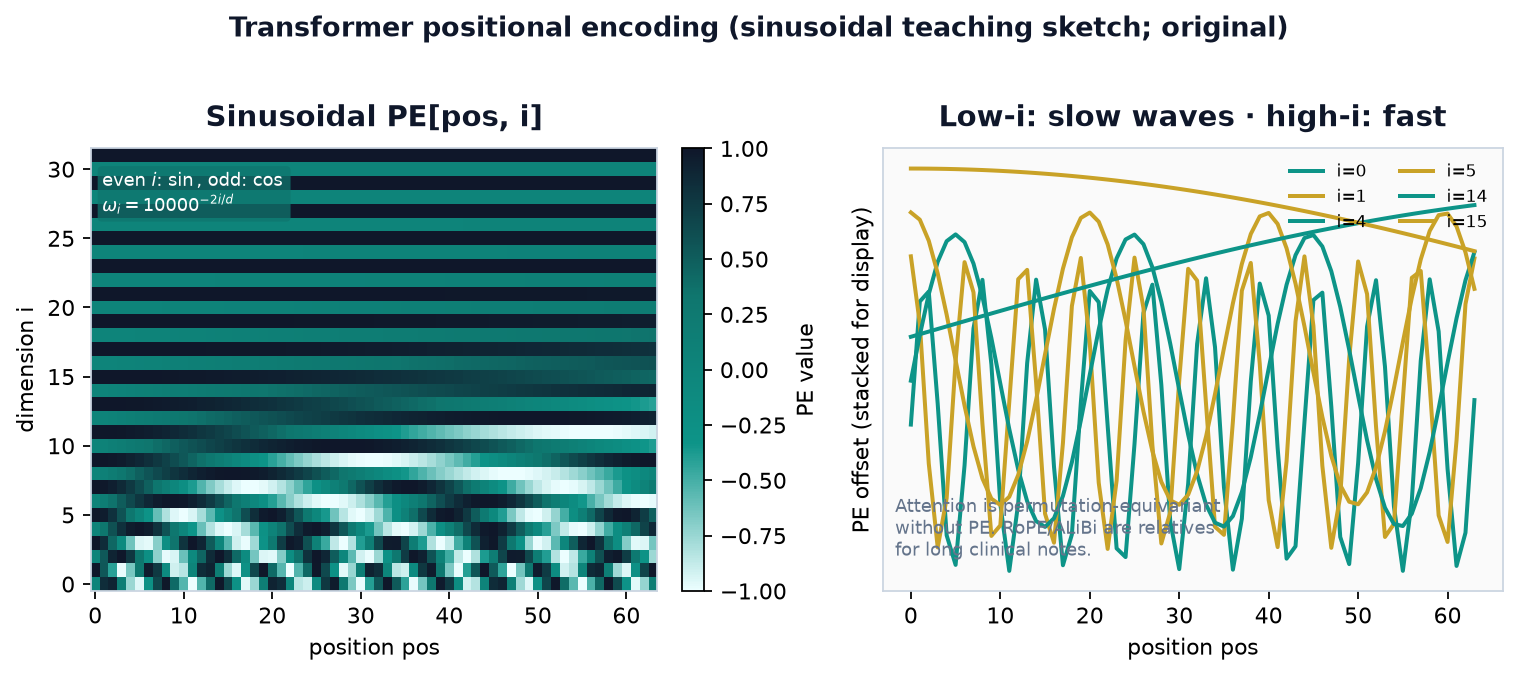
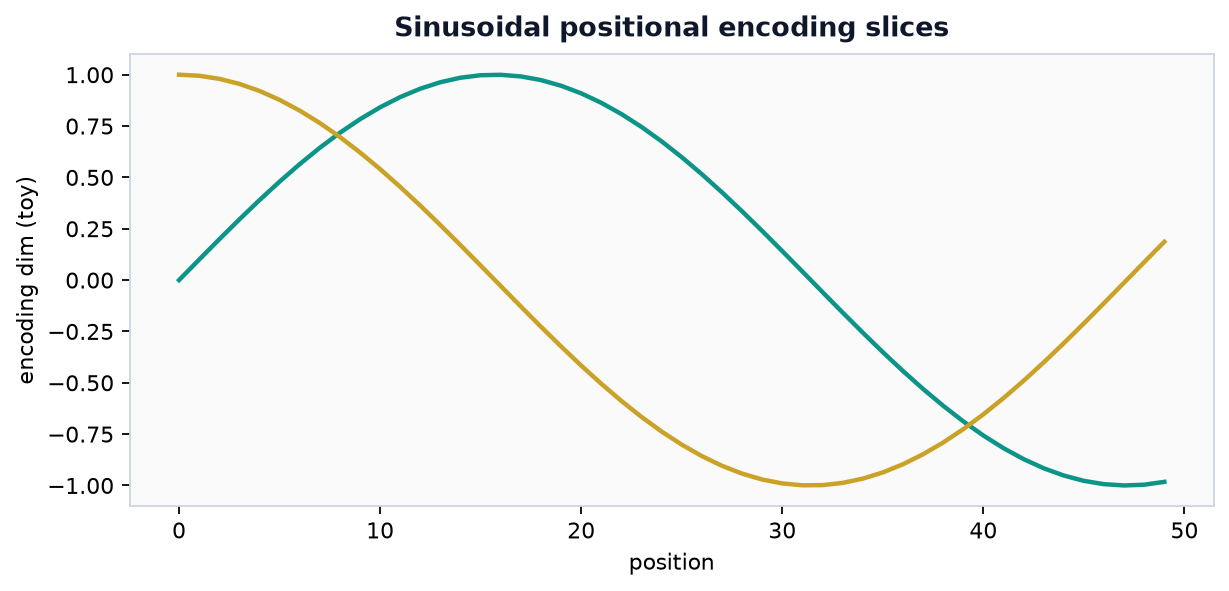
Cycle-30/31 densify: 22 scientific figures; floor raised to >=21
Cycle-30: norm growth, claim strength, dual axis, CI width, cluster sizes,
sequence motif, poly blowup, cumvar guide, VIF, LR schedules, MAE mask,
pos encoding, target-network lag, seq compute.

Cycle-31: policy entropy, tied weights, ego network, schema mismatch,
champ/challenger, ROC-PR reminder, kNN curve, smooth loss.

Gates green book-wide. No DOCX; prediction!=causation.

diff --git a/scripts/cycle30_31_figures.py b/scripts/cycle30_31_figures.py
@@ -1,0 +1,3 @@
+#!/usr/bin/env python3
+"""Cycle-30/31 densify figures written this session (floor to >=21)."""
+print('See docs/assets/figures for ml_fig_* from cycles 30-31')

diff --git a/docs/curriculum/00-mathematical-foundations-for-machine-learning.md b/docs/curriculum/00-mathematical-foundations-for-machine-learning.md
@@ -325,6 +325,11 @@ Logs are not decoration; they are structural. First, models multiply many probab
 
 *Figure — Low-rank outer-product geometry. Useful for intuition about factor models and SVD truncations—not a claim about clinical causal factors.*
 
+
+![Norm growth cartoon for matrix scales (teaching; original).](../assets/figures/ml_fig_norm_growth.png)
+
+*Figure — Linear-algebra scale intuition—not clinical causation. Pred ≠ cause without design.*
+
 ### What a function is, and how to read its graph
 
 Recall from Section 0.1 that a function maps each input to exactly one output. The domain is the set of allowed inputs; the range is the set of outputs actually produced. We picture a function by its graph: plot the input x horizontally and the output y = f(x) vertically, and mark every point (x, f(x)). Reading a graph is then physical: left-to-right is increasing input, height is output, and the “exactly one output” rule shows up as the vertical line test — any vertical line crosses the curve at most once.

diff --git a/docs/curriculum/00a-preface.md b/docs/curriculum/00a-preface.md
@@ -105,6 +105,11 @@ There is no separate further-reading chapter—the book is the curriculum. Read 
 
 *Figure — Preface ops checklist as bars. Weak slices/monitor/rollback block shipping. Checklists enforce process—they do not convert predictions into causal effects.*
 
+
+![Claim strength meter from ranking to causation (original).](../assets/figures/ml_fig_claim_strength.png)
+
+*Figure — Causal claims sit at the top and need design—not AUROC alone. Pred ≠ cause without design.*
+
 *Figure — Preface leakage triad. Timing (features after t₀), fit (scalers/vocab fit on full cohort), and label leakage (proxies that are the outcome) are the three modes to hunt in every methods section. Leakage inflates prediction metrics—not causal truth.*
 
 | Habit | What you do | What it prevents |

diff --git a/docs/curriculum/01-basic-concepts-of-machine-learning-and-artificial-intelligence.md b/docs/curriculum/01-basic-concepts-of-machine-learning-and-artificial-intelligence.md
@@ -421,6 +421,11 @@ Worked illustration (bias–variance). Let the true mean response at some input 
 
 *Figure — Broader domain coverage often improves transport in teaching curves. Domain breadth helps generalization estimates—not automatic causal identification.*
 
+
+![Smooth healthy training loss curve (synthetic; original).](../assets/figures/ml_fig_smooth_loss.png)
+
+*Figure — Optimization trajectory is not a causal claim. Pred != cause without design.*
+
 ## Common Pitfalls and Failure Modes
 
 The failure modes below recur across projects and modalities. Each has a mechanism, a warning sign, and a discipline that prevents it. Treat this as a checklist to run against any pipeline before you believe its numbers.

diff --git a/docs/curriculum/02-visualization.md b/docs/curriculum/02-visualization.md
@@ -266,6 +266,11 @@ Do not cherry-pick time windows or y-limits to manufacture a policy narrative.
 
 *Figure — Axis limits manufacture drama. Always inspect scale choices. Visualization ethics are part of scientific honesty—not etiology.*
 
+
+![Dual-axis charts can mislead vs shared scale (original).](../assets/figures/ml_fig_dual_axis.png)
+
+*Figure — Display ethics—not etiology. Pred ≠ cause without design.*
+
 Refuse 3-D categorical bars and exploded 3-D pies in scientific communication.
 
 Accessibility expands who can use your work correctly: sufficient luminance contrast, large fonts for projection and photocopy, descriptive captions and alt text, and tabular companions for key plotted values. Accessibility is quality control under time pressure, not only compliance.

diff --git a/docs/curriculum/03-probability-and-statistics.md b/docs/curriculum/03-probability-and-statistics.md
@@ -273,6 +273,11 @@ Return to the LVO screen with prevalence 0.20, sensitivity 0.85, and specificity
 
 *Figure — Multiplicity. Unadjusted testing inflates false positives as m grows. Correcting multiplicity is statistical hygiene—not by itself a causal design.*
 
+
+![CI width versus sample size (teaching; original).](../assets/figures/ml_fig_ci_width_n.png)
+
+*Figure — Narrow intervals are precision—not causal effects. Pred ≠ cause without design.*
+
 *Figure — LR+ ≈ 2.83 and LR− ≈ 0.214 travel across base rates; PPV/NPV do not. **Left:** PPV after a positive screen as a function of pre-test prevalence π (vertical mark at the chapter’s π=0.20 ED example). **Right:** residual disease probability after a negative screen. Copying a paper’s PPV into a different prevalence is a base-rate error.*
 
 Now connect to information theory with a tiny discrete example, using natural logs throughout so the units are nats. Suppose a binary outcome Y with P(Y=1)=0.2 and a binary feature X = screen result, with P(X=1)=0.41 (the positive-screen rate above) carrying the conditional probabilities from the screening table. The outcome’s entropy is H(Y) = −0.2 ln 0.2 − 0.8 ln 0.8 ≈ 0.500 nats. (Watch the units: the same quantity is 0.722 bits, because bits = nats / ln 2 = 0.500 / 0.6931; the numeral 0.7219 is the value in bits, not nats.) After observing X, the expected conditional entropy H(Y|X) is the screen-rate-weighted average of binary entropies at the posteriors 0.415 (screen +) and 0.051 (screen −): H(Y|X=1) ≈ 0.678 nats and H(Y|X=0) ≈ 0.201 nats; with P(X=1)=0.41 and P(X=0)=0.59, H(Y|X) ≈ 0.41·0.678 + 0.59·0.201 ≈ 0.397 nats. Information gain IG = H(Y) − H(Y|X) ≈ 0.500 − 0.397 ≈ 0.104 nats (about 0.15 bits). The screen cuts outcome uncertainty by roughly a fifth—a moderate, not decisive, reduction, consistent with a moderate LR+.

diff --git a/docs/curriculum/04-clustering.md b/docs/curriculum/04-clustering.md
@@ -324,6 +324,11 @@ Beyond the TOC core, several variants appear in clinical papers. Spectral cluste
 
 *Figure — Bad inits can stall; multi-start and k-means++ help. Init is optimization—not a window into true disease subtypes.*
 
+
+![Uneven cluster sizes pie (synthetic; original).](../assets/figures/ml_fig_cluster_size_imbalance.png)
+
+*Figure — Geometry of partitions—not etiologic prevalence. Pred ≠ cause without design.*
+
 Mean-shift finds modes of a kernel density estimate without fixing k, related in spirit to density methods. Hierarchical density methods (HDBSCAN) combine ideas from OPTICS and hierarchy to extract stable clusters across density levels. Constrained clustering incorporates must-link and cannot-link hints from partial labels—semi-supervised structure discovery when experts can say ‘these two cases should not share a phenotype’ without full labeling.
 
 Biclustering and co-clustering simultaneously cluster rows and columns of a matrix—patients and genes, or patients and sparse code sets—producing blocks of co-behavior. Topic models on clinical text are soft co-clustering cousins. Subspace clustering seeks clusters that exist only in feature subsets, relevant when different stroke mechanisms live in different biomarker panels. These methods multiply researcher degrees of freedom; pre-registration of analytic choices becomes even more important.

diff --git a/docs/curriculum/05-frequent-itemset-mining-sequence-mining-and-information-retrieval.md b/docs/curriculum/05-frequent-itemset-mining-sequence-mining-and-information-retrieval.md
@@ -264,6 +264,11 @@ Apriori generates candidates of size k from frequent itemsets of size k−1, pru
 
 *Figure — Recall@k rises then plateaus as the ranked list lengthens. Pair with precision@k. Retrieval metrics rank content—they do not prove causal importance.*
 
+
+![Sequence motif toy string ABACABA (original).](../assets/figures/ml_fig_sequence_motif.png)
+
+*Figure — Pattern mining finds strings—not causes. Pred ≠ cause without design.*
+
 ```
 Apriori(D, minsup):
  L1 ← frequent 1-itemsets in D

diff --git a/docs/curriculum/06-feature-engineering.md b/docs/curriculum/06-feature-engineering.md
@@ -301,6 +301,11 @@ Blanks are not merely a nuisance to be silently filled; they are data whose reas
 
 *Figure — Unscaled features let large-unit variables dominate distances and penalties. Scaling is preprocessing—not a causal adjustment by itself.*
 
+
+![Polynomial feature expansion growth (original).](../assets/figures/ml_fig_poly_blowup.png)
+
+*Figure — Feature maps expand capacity—not causal graphs. Pred ≠ cause without design.*
+
 \n![6.6: Rubin's missingness mechanisms. MCAR: absence is driven by chance, independent of all data. MAR: absence in x3 is explai](../assets/figures/ml_concept_6.6_59c3837d.png)
 
 *Figure 6.6 — original teaching graphic.*

diff --git a/docs/curriculum/07-dimensionality-reduction-and-data-decomposition.md b/docs/curriculum/07-dimensionality-reduction-and-data-decomposition.md
@@ -243,6 +243,11 @@ NMF approximates a nonnegative matrix X ≈ W H with W ≥ 0, H ≥ 0. Nonnegati
 
 *Figure — Larger latents reduce recon error with diminishing returns. Compression quality is not semantic or causal meaning.*
 
+
+![Cumulative variance with 90 percent guide (synthetic; original).](../assets/figures/ml_fig_cumvar_guide.png)
+
+*Figure — Heuristics for rank—not etiology. Pred ≠ cause without design.*
+
 *Figure — NMF teaching panel. A synthetic 16×16 nonnegative “map” is a sum of three blob parts. Multiplicative-update NMF recovers additive parts \(H\) and sample loadings \(W\); reconstruction error falls with rank and plateaus near the true \(r=3\). Parts are ≥0 and additive—useful for territories or topics—but solutions are non-unique, depend on initialization, and do not license causal anatomy labels without external validation.*
 
 ### Singular Value Decomposition (SVD)

diff --git a/docs/curriculum/08-regression-analysis.md b/docs/curriculum/08-regression-analysis.md
@@ -294,6 +294,11 @@ As λ goes from large to small along a Lasso path, coefficients enter the model 
 
 *Figure — Residual variance growing with fitted values flags OLS assumption stress. Consider WLS/robust SEs. Diagnostics improve honesty—not automatic causal ID.*
 
+
+![VIF bars for multicollinearity (synthetic; original).](../assets/figures/ml_fig_vif_bars.png)
+
+*Figure — Estimation fragility—not a causal DAG. Pred ≠ cause without design.*
+
 Elastic net’s mixing parameter α (weight on L1 versus L2) is a second hyperparameter; nest its selection. Grouped clinical features (multiple BP meds, multi-item NIHSS) sometimes use group Lasso variants so that whole groups enter together—beyond this chapter’s core, but aligned with elastic net’s motivation. The non-negative garrote’s c_j path similarly traces shrinkage of an initial fit; if the initial OLS is already nonsense due to p > n, start from Ridge or univariate screens instead.
 
 ## Optimization Practice Notes

diff --git a/docs/curriculum/09-classification.md b/docs/curriculum/09-classification.md
@@ -302,6 +302,11 @@ Class imbalance remedies include resampling (oversample minority, undersample ma
 
 *Figure — Threshold choice needs costs and prevalence, not only a peak J on a training set. Operating points are decisions—not causal effects.*
 
+
+![k-NN error versus k (synthetic; original).](../assets/figures/ml_fig_knn_k_curve.png)
+
+*Figure — Neighborhood size is a hyperparameter—not etiology. Pred != cause without design.*
+
 ## Clinical and Epidemiologic Notes
 
 Classification is the workhorse of predictive modeling in neurology: large-vessel occlusion (LVO) versus not, hemorrhagic versus ischemic pathways, TOAST or CCS stroke subtype, malignant MCA edema risk, 90-day functional independence (mRS 0–2), or detection of atrial fibrillation on extended monitoring. Scientific quality depends as much on cohort design and metrics as on the choice among logistic regression, forests, or boosting.